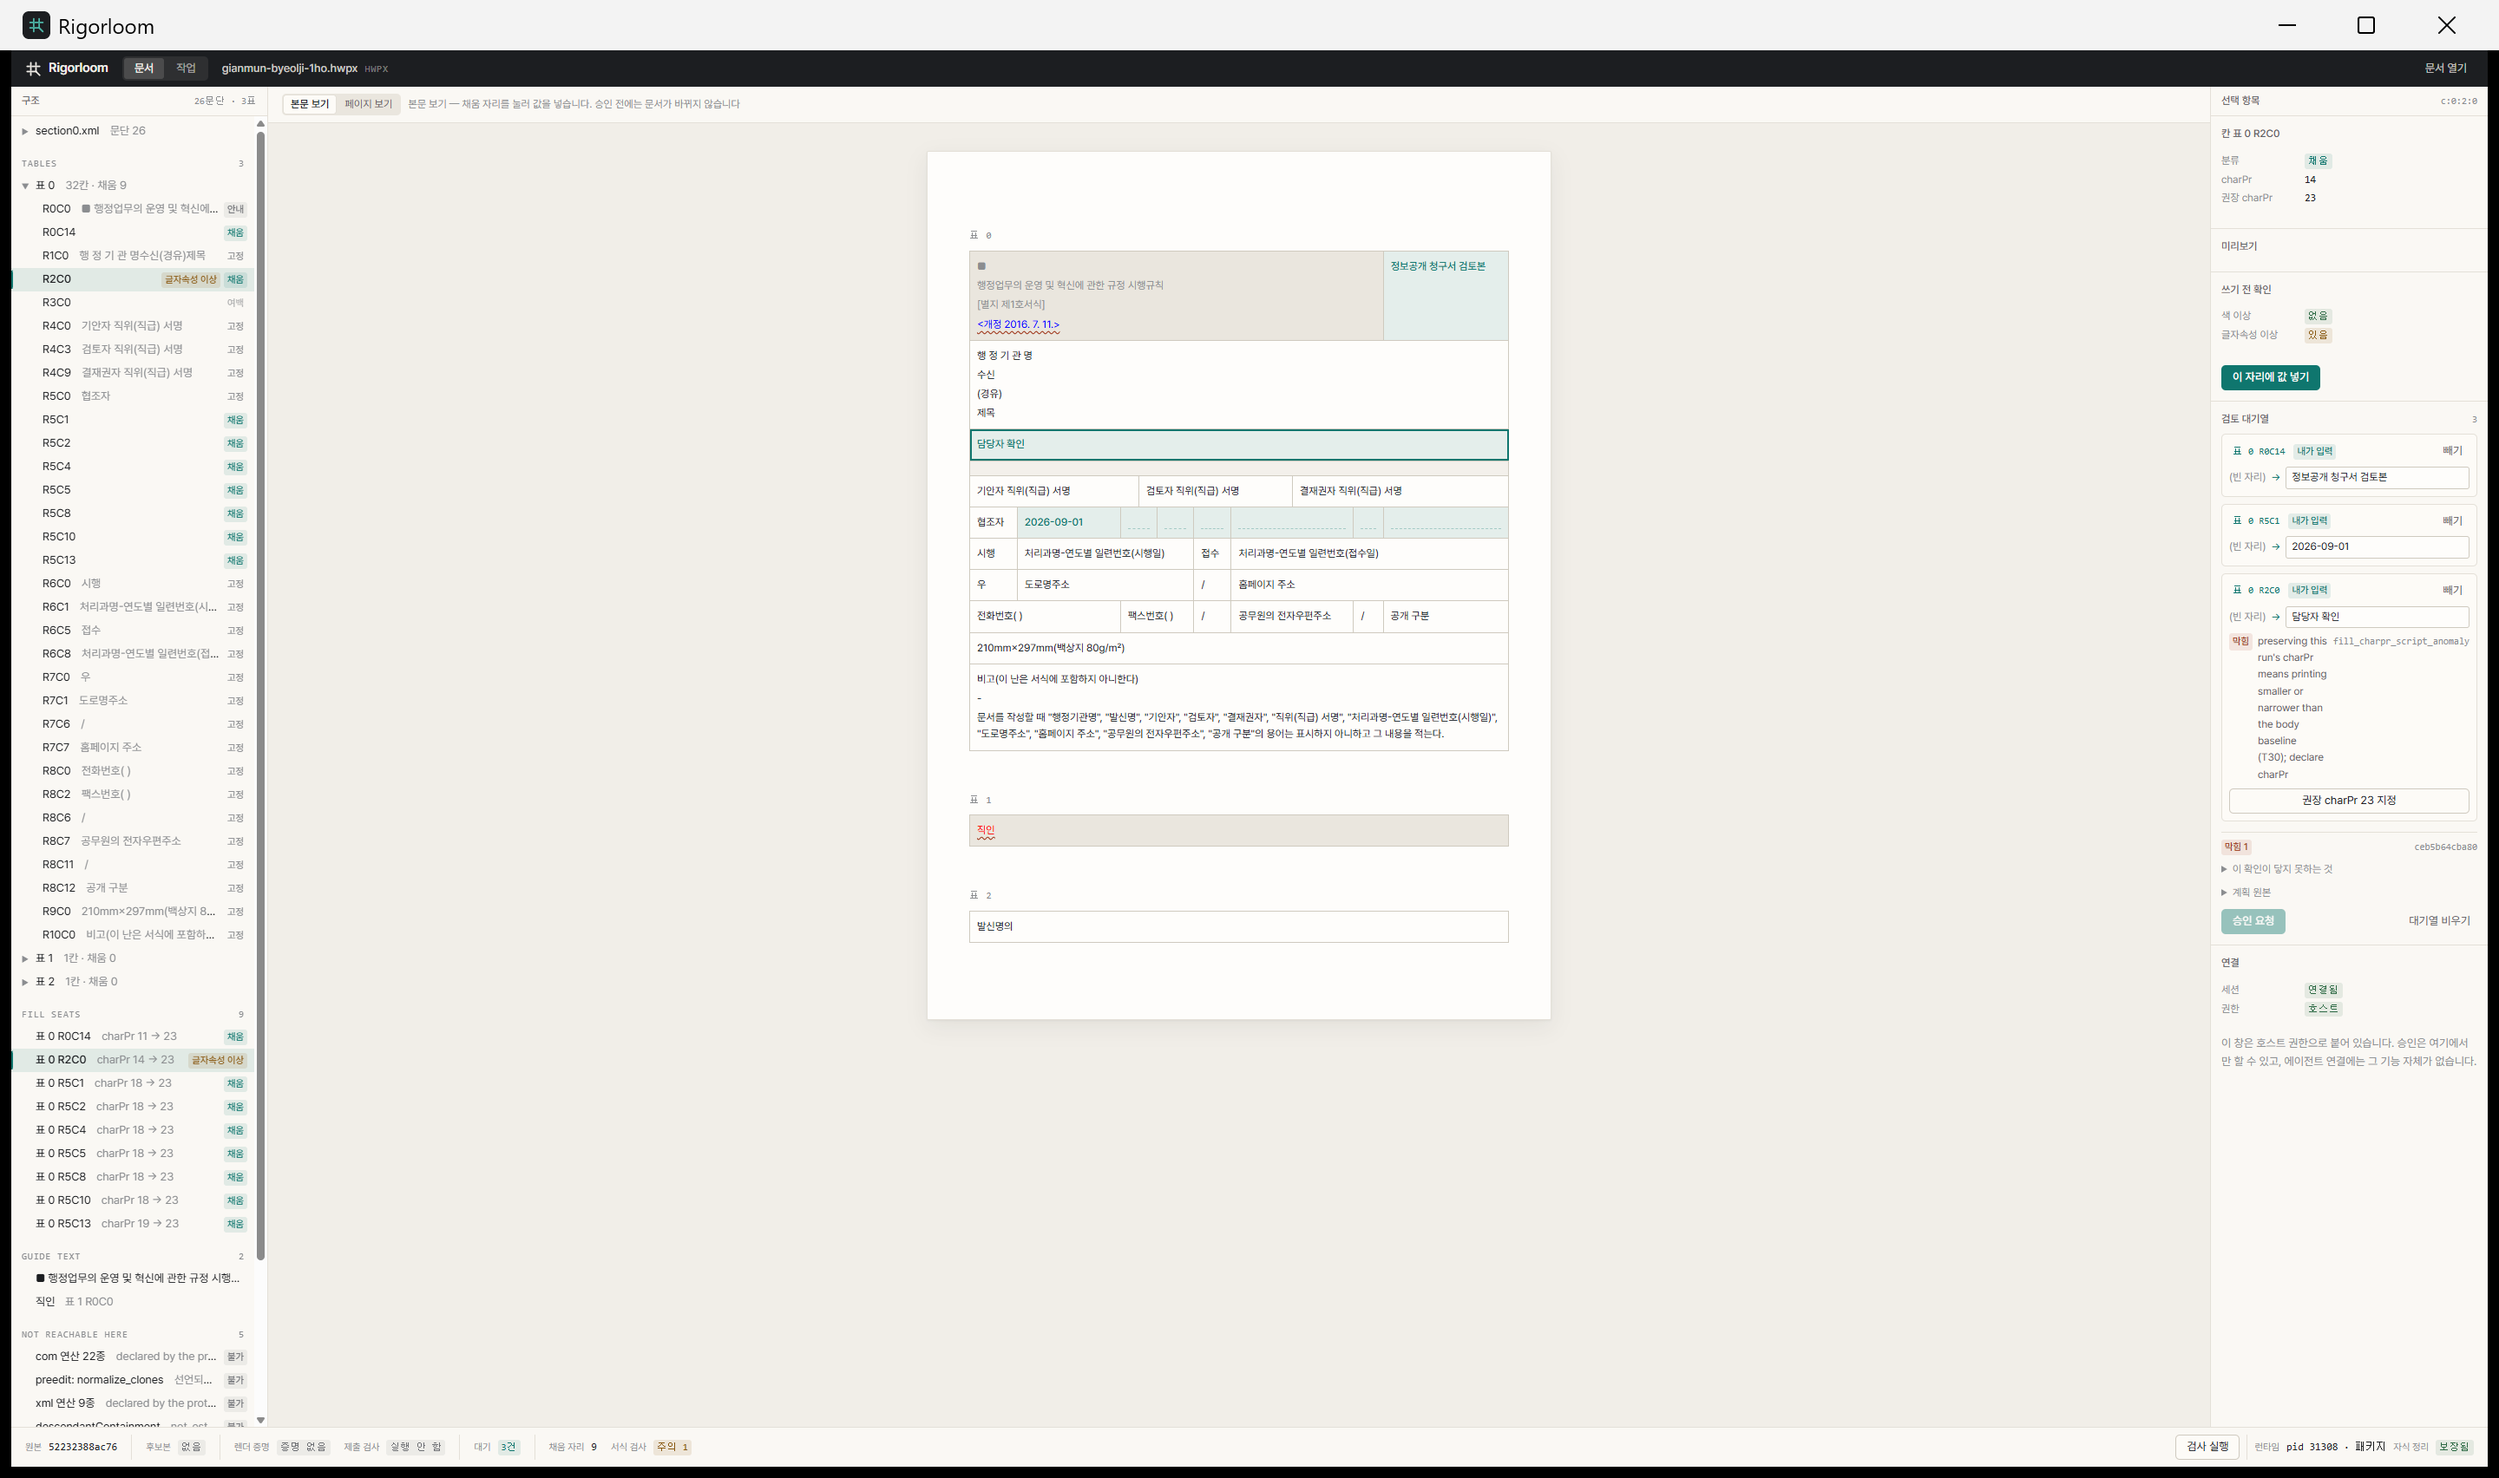
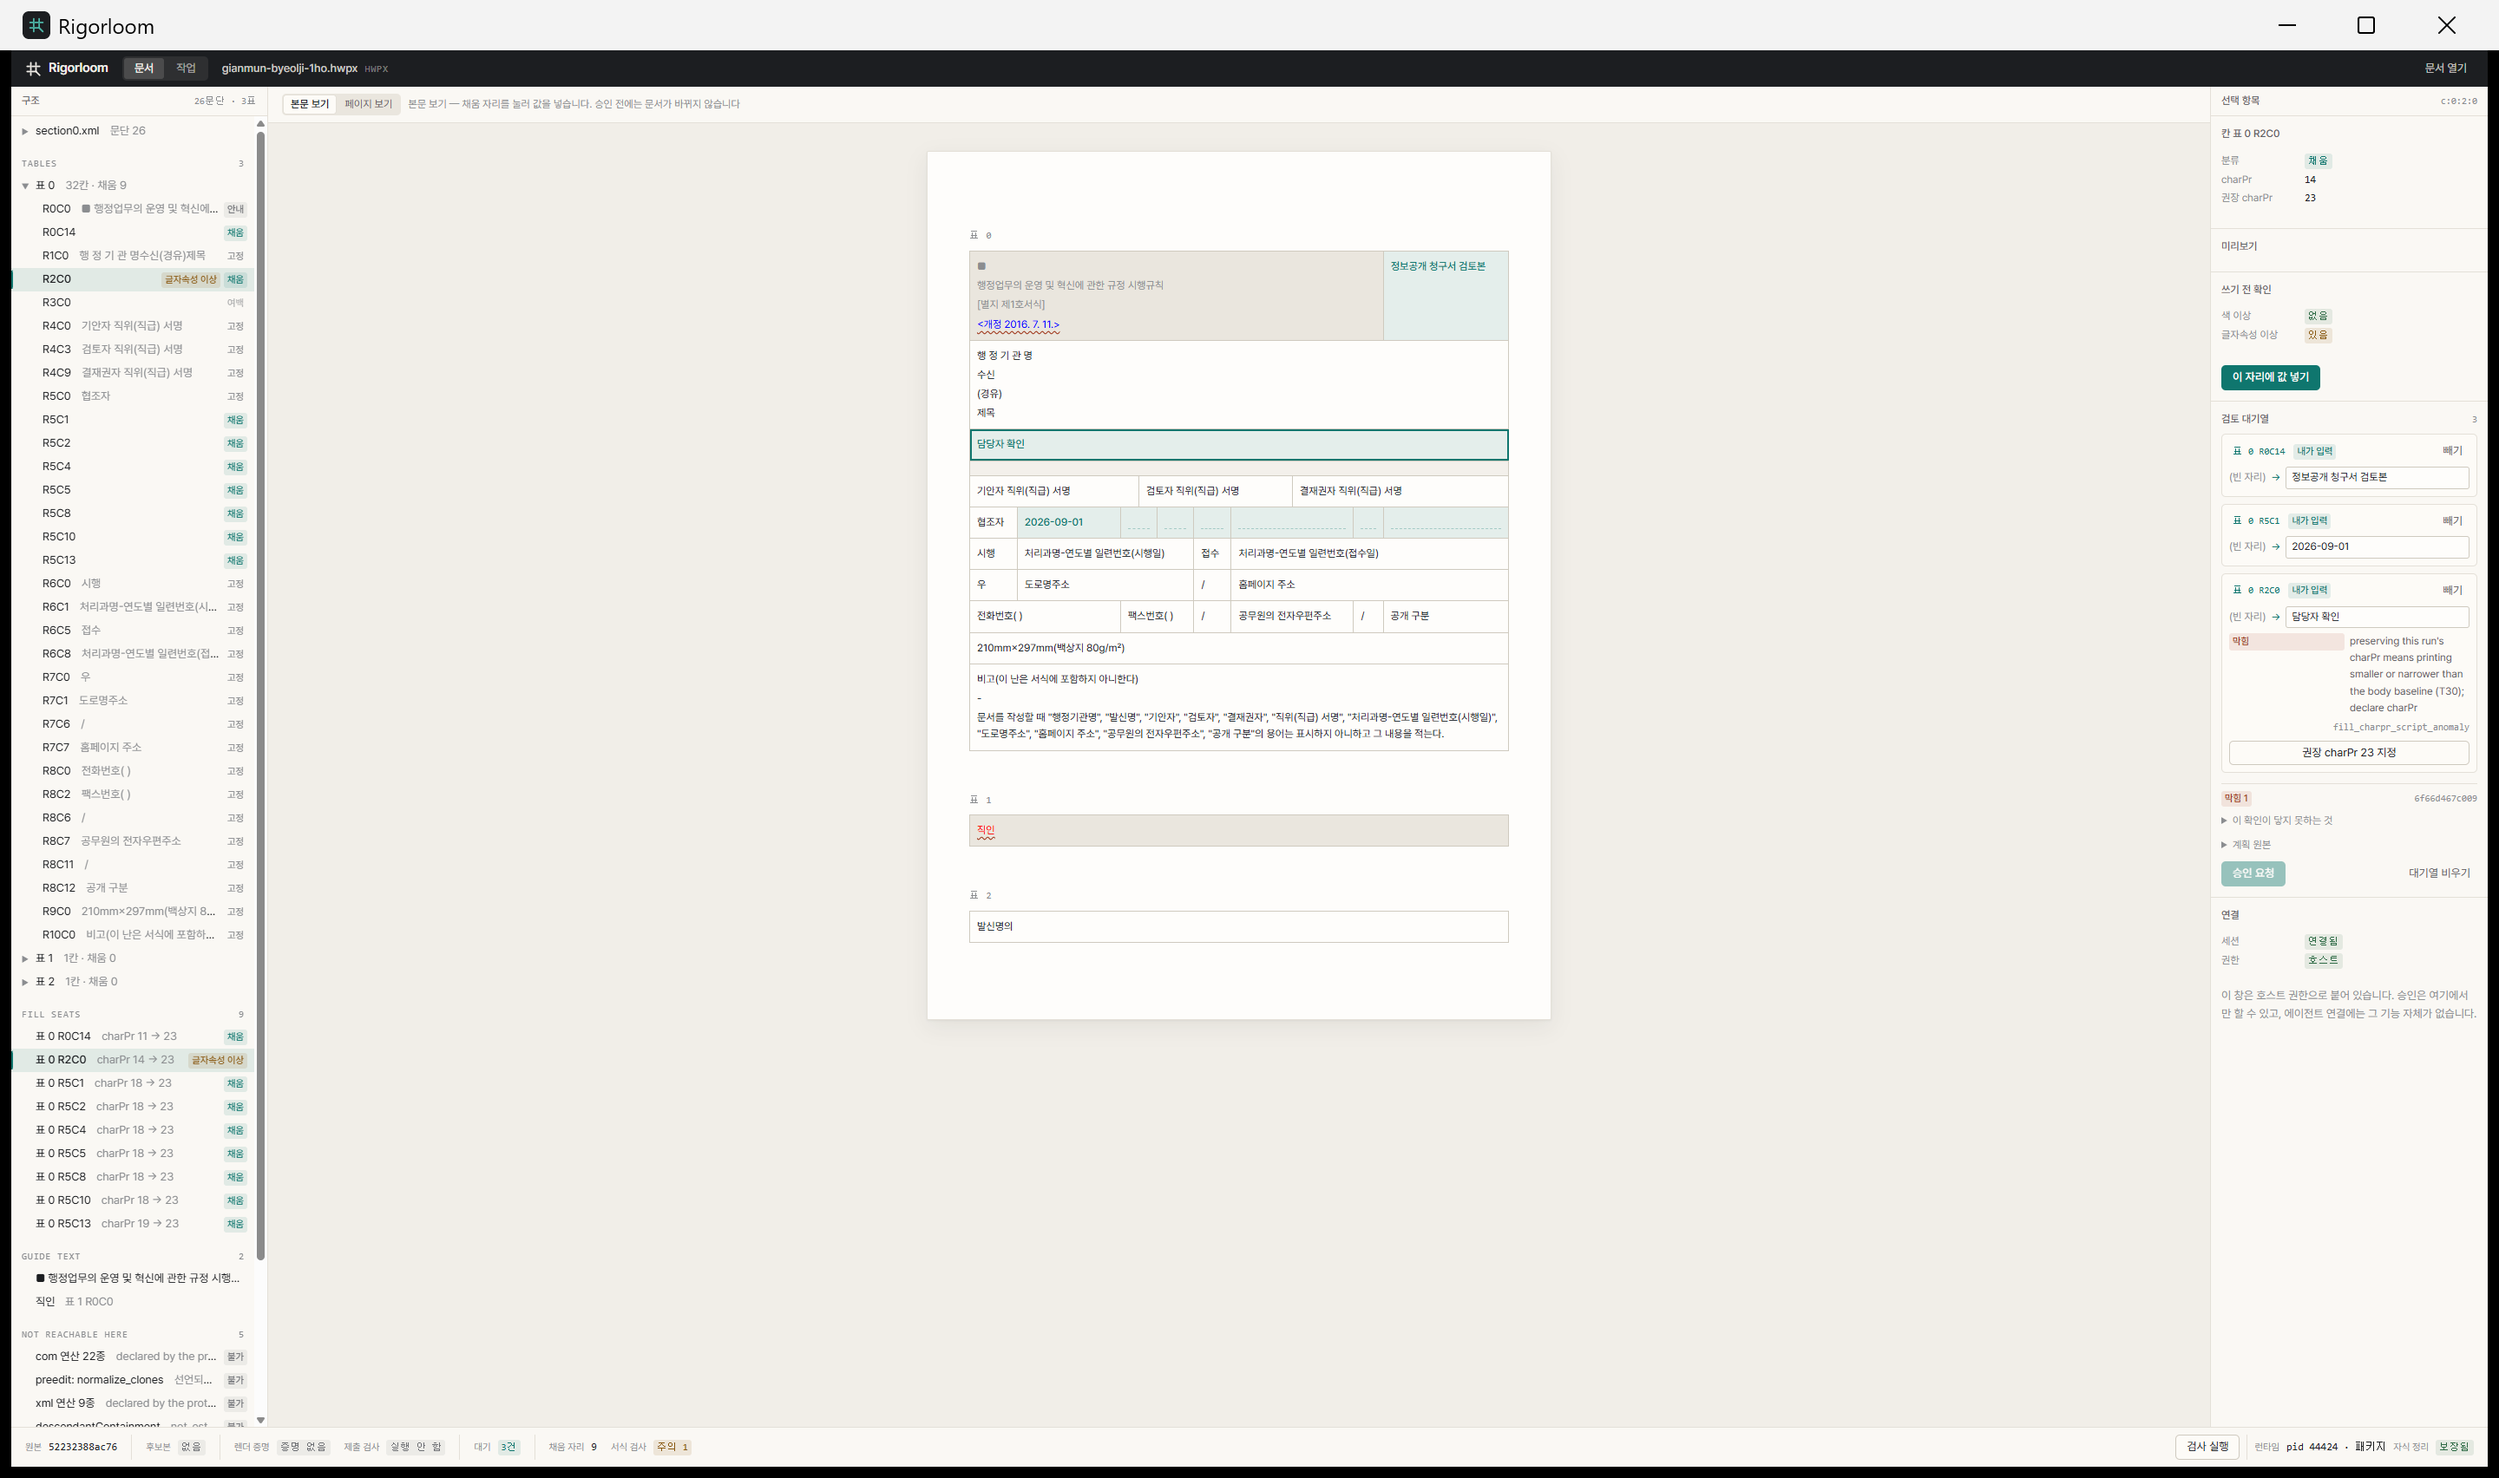
fix(desktop): give the refusal the width, not the code chip
A nowrap code chip with margin-left:auto in a 320 px rail squeezed a two-line
T30 refusal into a nine-character column. Legible, but the panel that carries
the most important sentence in the application should not be the one that
reads worst — the screenshot is what made it obvious. The chip now wraps onto
its own line instead of stealing the message.

Screenshots re-taken against the fixed build. Smoke re-run on the shipped
binary: 184 passed, 0 failed.

Changed region(s): [[0.875, 0.4354, 1.0, 0.7154]]

diff --git a/desktop/src/styles.css b/desktop/src/styles.css
@@ -1655,21 +1655,33 @@ body.dragging .drop {
   box-shadow: 0 0 0 2px var(--accent-soft);
 }
 
+/* The message must get the width, not the code chip.
+   `margin-left: auto` on a nowrap chip in a 320 px rail squeezed a two-line
+   refusal into a nine-character column — legible, but the panel that carries
+   the most important sentence in the application should not read worst. The
+   chip now wraps onto its own line instead of stealing the message's. */
 .queue-finding {
   display: flex;
+  flex-wrap: wrap;
   align-items: baseline;
-  gap: 6px;
+  gap: 4px 6px;
   margin: 0;
   font-size: var(--text-sm);
   line-height: var(--leading-body);
   color: var(--fg-muted);
 }
 
+.queue-finding > span {
+  flex: 1 1 14ch;
+  min-width: 0;
+}
+
 .queue-finding code {
+  flex: 0 0 auto;
+  margin-left: auto;
   font-family: var(--font-mono);
   font-size: var(--text-xs);
   color: var(--fg-faint);
-  margin-left: auto;
   white-space: nowrap;
 }
 
